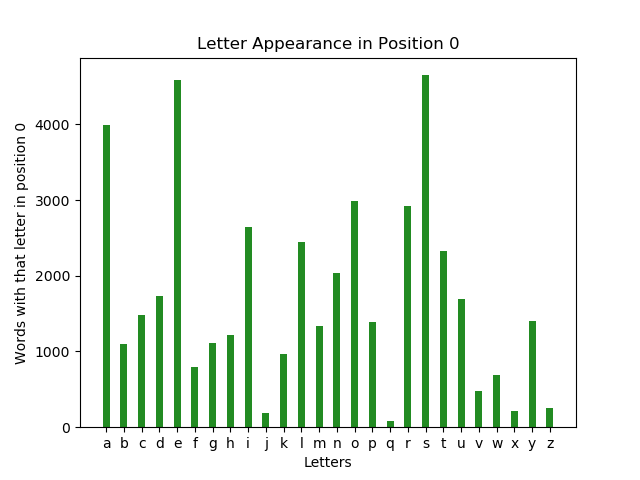
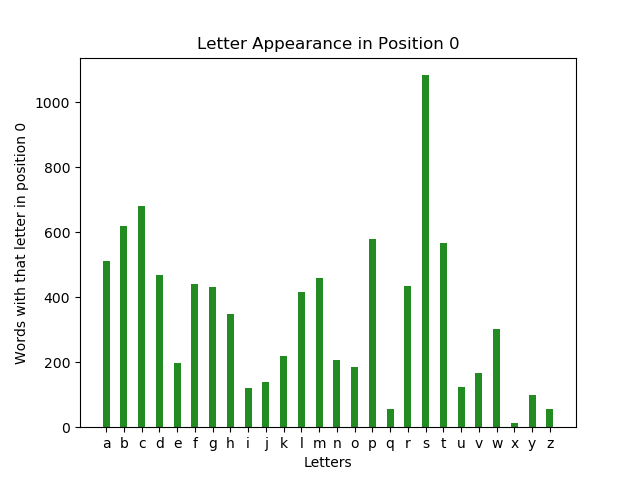
Corrected Plots by closing previous plots

diff --git a/WordleWords.py b/WordleWords.py
@@ -42,6 +42,7 @@ plt.xlabel("Letters")
 plt.ylabel("Appearances in Dictionary")
 plt.title("Letter Appearance Accounting for Duplication Within a Word")
 plt.savefig('LettersAccountingForMultiplicity')
+plt.close()
 
 print('Occurances of each letter Not Accounting or duplication within a word:', LettersInWordCount)
 
@@ -52,6 +53,7 @@ plt.xlabel("Letters")
 plt.ylabel("Words with that letter in Dictionary")
 plt.title("Letter Appearance Not Accounting for Duplication Within a Word")
 plt.savefig('LettersNotAccountingForMultiplicity')
+plt.close()
 
 print('')
 
@@ -89,6 +91,7 @@ for i in range(WordleLength):
     plt.ylabel("Words with that letter in position %s" %str(i))
     plt.title("Letter Appearance in Position %s" %str(i))
     plt.savefig('LetterDistributionPosition%s' %str(i))
+    plt.close()
 
     MaxDistribution = max(Distribution)
     LetterOrder = ''
